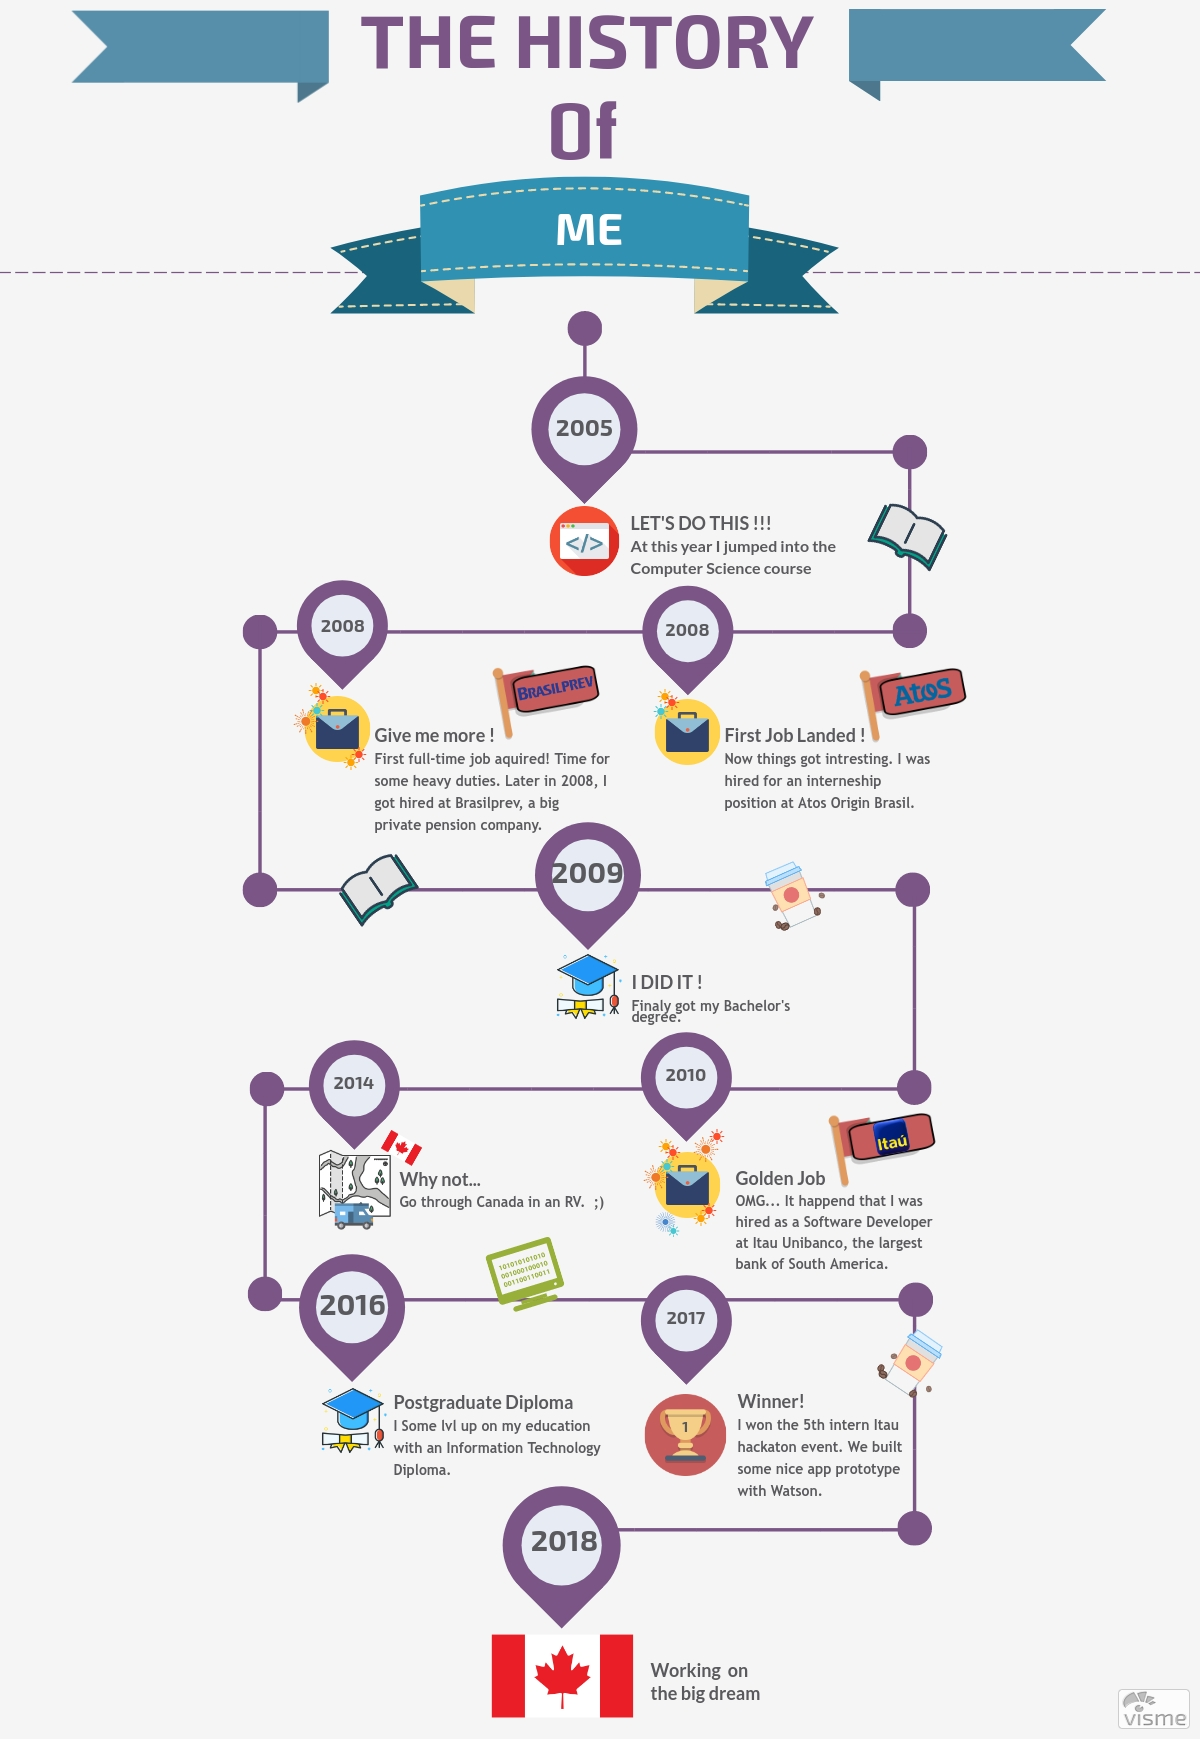
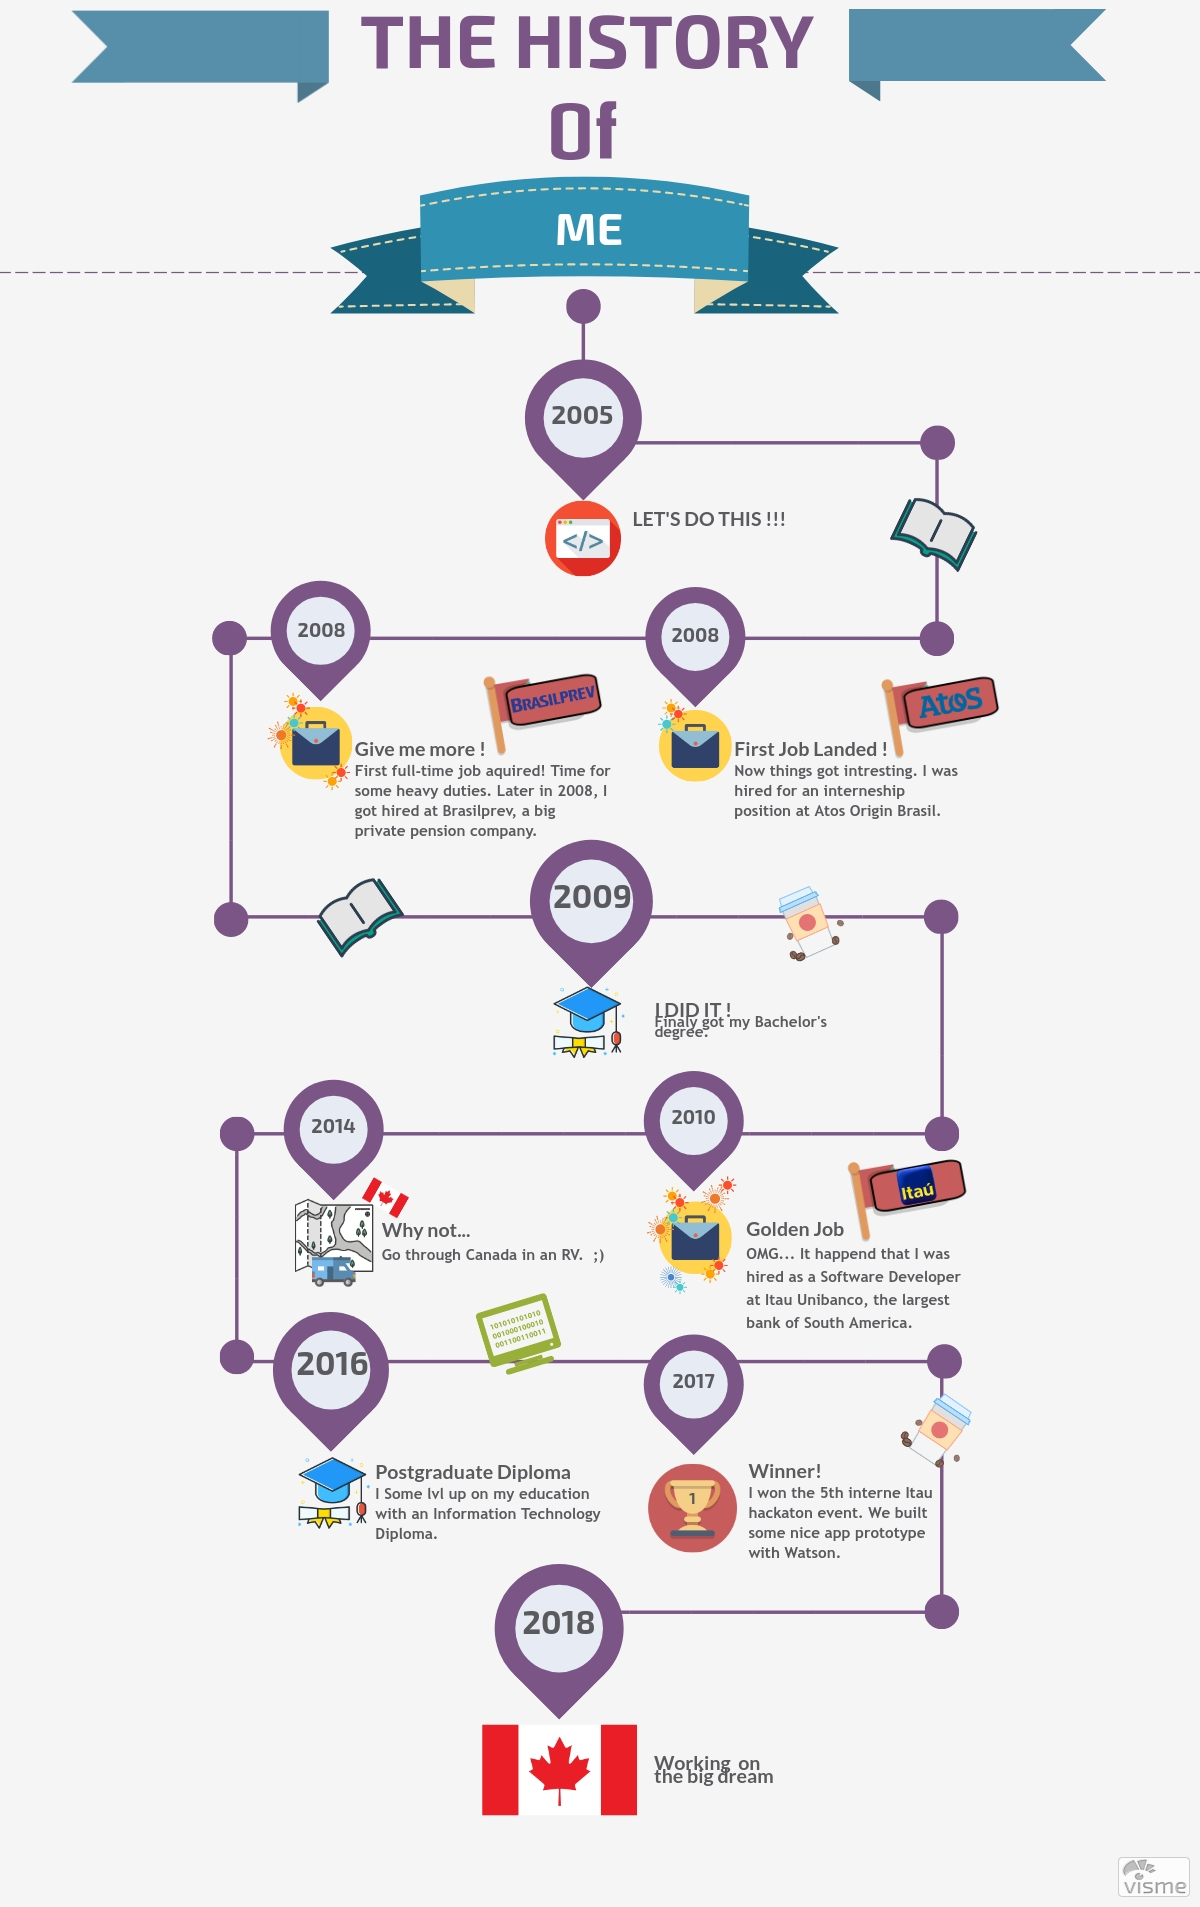
layout skills

diff --git a/app/view/index.html b/app/view/index.html
@@ -87,10 +87,10 @@
             </div>
         </nav> -->
         <div class="center-align flow-text">
-            <!--  <script src="//my.visme.co/visme.js"></script>
-            <div class="visme_d" data-url="31gq6ex1-untitled-project" data-w="800" data-h="1820" data-domain="my"></div>
- -->
-            <img class="responsive-img" src="public/img/Portifolio.jpg" alt="">
+            <script src="//my.visme.co/visme.js"></script>
+            <div class="visme_d" data-url="x4yj88rw-portifolio" data-w="1600" data-h="300" data-domain="my"></div>
+            <p style="font-family: Arial; font-size: 10px; color: #333333">
+                <!--    <img class="responsive-img" src="public/img/Portifolio.jpg" alt=""> -->
         </div>
         <div class="portifolio center-align">
             <div class="cardBlock center-align">
@@ -148,9 +148,9 @@
         </nav> -->
         <div class="center-align flow-text">
             <script src="//my.visme.co/visme.js"></script>
-            <div class="visme_d" data-url="z4yjmgdo-skills" data-w="800" data-h="806" data-domain="my">
-            </div>
+            <div class="visme_d" data-url="76opovqy-skills" data-w="1600" data-h="2349" data-domain="my"></div>
         </div>
+    </div>
     </div>
 
     <div id="workingHistoriyBlock" class="block grey lighten-4">
@@ -161,10 +161,10 @@
             </div>
         </nav> -->
         <div class="center-align flow-text">
-            <!--  <script src="//my.visme.co/visme.js"></script>
-            <div class="visme_d" data-url="31gq6ex1-untitled-project" data-w="800" data-h="1820" data-domain="my"></div>
- -->
-            <img class="responsive-img" src="public/img/history.jpg" alt="">
+            <script src="//my.visme.co/visme.js"></script>
+            <div class="visme_d" data-url="31gq6ex1-untitled-project" data-w="1200" data-h="1833" data-domain="my"></div>
+
+            <!--  <img class="responsive-img" src="public/img/history.jpg" alt=""> -->
         </div>
     </div>
     <footer class="page-footer">
@@ -213,7 +213,10 @@
             console.log("swiped!");
         })
 
+
         $(document).ready(function() {
+
+
             $('.sidenav').sidenav({
                 edge: 'left', // Choose the horizontal origin
                 closeOnClick: true, // Closes side-nav on <a> clicks, useful for Angular/Meteor

diff --git a/app/view/public/js/formatter.js b/app/view/public/js/formatter.js
@@ -51,6 +51,7 @@ $(document).ready(function() {
     $(window).resize(function() {
         setFooterBackground();
         setHeaderBackground();
+        //hide unecessary logos and brands 
 
     });
     setFooterBackground();

diff --git a/app/view/public/css/content.css b/app/view/public/css/content.css
@@ -117,3 +117,7 @@
        margin: 2% 2% 2% 2%;
        min-width: 20%;
    }
+   
+   .presentation_water {
+       display: none !important;
+   }
